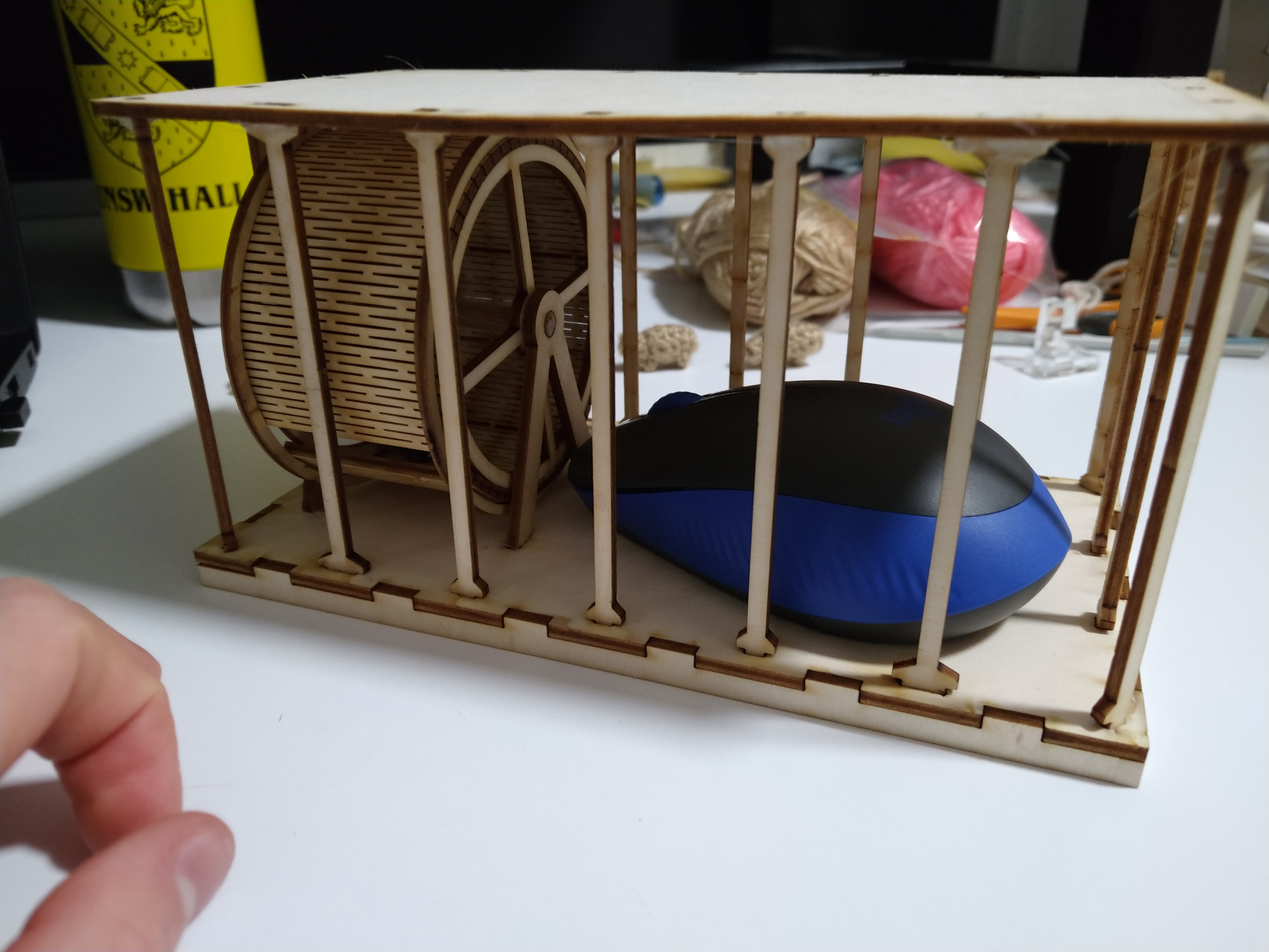
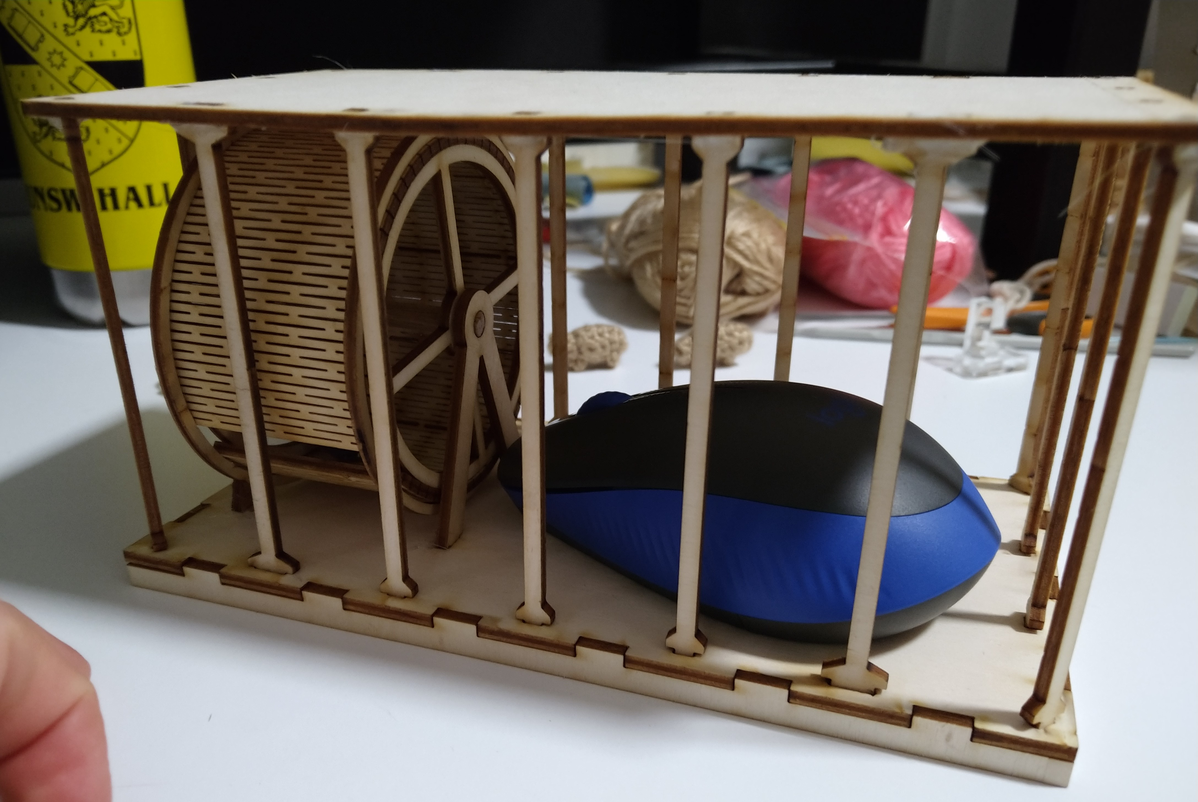
a

diff --git a/assets/main.scss b/assets/main.scss
@@ -15,10 +15,10 @@
 
     /* for thin size */
     @include media-query($on-palm) { 
-        position: center;
         float: none;
         margin: auto;
-        width: 100%;        
+        width: auto;   
+        max-height: 70vw; 
     } 
 }
 
@@ -159,8 +159,8 @@
 }
 
 .viewer3d {
-    width: 95%;
-    position: center;
+    width: 96%;
+    margin: 0px 2%;
     height: 550px;
 }
 

diff --git a/Laser.md b/Laser.md
@@ -6,19 +6,7 @@ permalink: /laser
 
 # Laser Cutting
 Laser cutting is a very quick method to make 2D parts out of wood or acrylic. I have used it to create artistic pieces and functional parts. 
-I use laser cutting in most of projects because it is so quick and useful. My other projects that use laser cutting are my [clock](/sebsite/clock), [chess boards](/sebsite/chess), [game](/sebsite/game), [puzzle box](/sebsite/puzzlebox), and [robot](/sebsite/robot).
-
-## Coasters
-<div class="gallery" > 
-    <img alt="Coaster" src="/sebsite/images/coaster1.jpg" class="gallery__img">
-    <img alt="Coaster" src="/sebsite/images/coaster2.jpg" class="gallery__img">
-    <img alt="Coaster" src="/sebsite/images/coaster3.jpg" class="gallery__img">
-    <img alt="Coaster" src="/sebsite/images/coaster4.jpg" class="gallery__img">
-    <img alt="Coaster" src="/sebsite/images/coaster5.jpg" class="gallery__img">
-    <img alt="Coaster" src="/sebsite/images/coaster6.jpg" class="gallery__img">
-    <img alt="Coaster" src="/sebsite/images/coaster7.jpg" class="gallery__img">
-    <img alt="Coaster" src="/sebsite/images/coaster8.jpg" class="gallery__img">
-</div>
+I use laser cutting in most of projects because it is so quick and useful. My other projects that use laser cutting are my [clock](/sebsite/clock), [chess boards](/sebsite/chess), [game](/sebsite/game), [puzzle box](/sebsite/puzzlebox), [parametric designs](/sebsite/parametric) and [robot](/sebsite/robot).
 
 
 ## Drawings 
@@ -37,12 +25,22 @@ I use laser cutting in most of projects because it is so quick and useful. My ot
     <img alt="Map" src="/sebsite/images/perth.jpg" width="65%">
 </div>
 
+## Mosaic art
+
+## Kinetic art
+<div class="clearfix">
+    <img alt="kinetic art" src="/sebsite/images/kineticart.jpg" class="rightfloat">
+    <p>Laser cutting can also be used for more engineering work because it create any 2D part. This is a moving art piece I created because I was board. The crank down the bottom is connected by two oppositely strung rubber band transmission belts to the two turing disks on top. This makes the spiky parts rotate opposite directions and creates and interesting optical effect.</p>
+    <p>friction fit</p>
+</div>
+
+## Mouse cage 
+<div class="clearfix">
+    <img alt="Mousecage" src="/sebsite/images/mouse1.jpg" class="rightfloat">
+    <p>My university hall was going through a prank war so I decided to join in my own special way by creating a mouse cage puzzle for a computer mouse. I designed all the parts in 2D, cut them out and assembled them with hot glue. The cage is in two parts: the top with the bars fits onto the bottom, and the bottom has 4 friction fit pins that hold the top in place. The locking pins are hidden by a skirt so the bottom appears solid. I added a little working mouse wheel, which was interesting to make because it is not aa flat 2D part. I used a wood bending technique where lots of lines are cut into thin wood as shown. </p>
+    <img alt="Flex pattern" src="/sebsite/images/flexpattern.jpg" max-width="10%">
+</div>
 
 
-## Engineering 
-kinetic art
-mouse cage 
-clock
-
-### Friction fit
+## Friction fit
 I designed all the parts to friction fit, which took a lot of trial and error. 

diff --git a/Parametric.md b/Parametric.md
@@ -6,10 +6,23 @@ permalink: /parametric
 
 # Parametric curves
 
+Parametric means a curve where the x and y positions are defined by functions eg. $$(cos(3t),sin(2t))$$. 
+
 ## Desmos dots
 
 link to rendering
 
 ## Python DXF
 
-link to laser cutting
+### Coasters
+These coasters have all been [laser cut](/sebsite/laser) with parametric designs.
+<div class="gallery" > 
+    <img alt="Coaster" src="/sebsite/images/coaster1.jpg" class="gallery__img">
+    <img alt="Coaster" src="/sebsite/images/coaster2.jpg" class="gallery__img">
+    <img alt="Coaster" src="/sebsite/images/coaster3.jpg" class="gallery__img">
+    <img alt="Coaster" src="/sebsite/images/coaster4.jpg" class="gallery__img">
+    <img alt="Coaster" src="/sebsite/images/coaster5.jpg" class="gallery__img">
+    <img alt="Coaster" src="/sebsite/images/coaster6.jpg" class="gallery__img">
+    <img alt="Coaster" src="/sebsite/images/coaster7.jpg" class="gallery__img">
+    <img alt="Coaster" src="/sebsite/images/coaster8.jpg" class="gallery__img">
+</div>

diff --git a/Clock.md b/Clock.md
@@ -12,6 +12,8 @@ permalink: /clock
 
 <p>I designed the clock of 11 <a href="/sebsite/laser">laser cut</a> gears to use energy from a falling weight and timing from a swinging pendulum to tell time for 2 hours at a time.</p>
 </div> 
+This is an expanded model of my clock I built using Rhino and am displaying here using Fusion 360. 
+
 <iframe src="https://gmail1265769.autodesk360.com/shares/public/SH919a0QTf3c32634dcf92e454fae9309967?mode=embed" class="viewer3d" allowfullscreen="true" webkitallowfullscreen="true" mozallowfullscreen="true"  frameborder="0"></iframe>
 
 ## Mechanics
